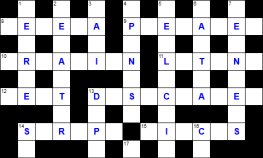
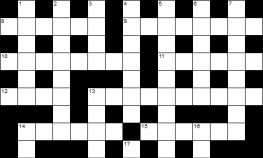
Complete grid 13 & switch to 14

diff --git a/grids/grid013.html b/grids/grid013.html
@@ -34,26 +34,25 @@ exolve-begin
   exolve-title: Community AOTW Crossword 13
   exolve-setter: contributors to <a href="https://www.reddit.com/r/crosswords/">/r/crosswords</a>
   exolve-prelude:
-    The shaded entry is last week’s <a href="https://www.reddit.com/r/crosswords/comments/m4whfk/aotw_pns/gqwjkae/" target="_blank">winner by professor_glum (week 27)</a>.<br><br>Definitions are <span class="xlv-definition">underlined in red</span>.
+    'Reveal this', 'Reveal all!', and 'Check this' (for correct entries) will also show clue parsing notes.
   exolve-width: 15
   exolve-height: 15
   exolve-grid:
-        . H!. R!. B!. S!. N!. M!. M!. 
-        P!E!S!E!T!A!. P!L!E!I!A!D!E!S!
-        . A!. M!. L!. A!. G!. N!. A!. 
-        A!R!C!A!D!I!A!N!. L!A!T!E!N!T!
-        . S!. S!. . . I!. E!. R!. D!. 
-        C!E!S!T!. D!E!S!I!C!C!A!T!E!S!
-        . . . E!. E!. H!. T!. . . R!. 
-        . S!T!R!I!P!S!. P!I!E!C!E!S!. 
-        . M!. . . O!. T!. N!. H!. . . 
-        V!A!R!N!I!S!H!I!N!G!. U!0 E!0 
-        . L!. E!. I!. D!. . . R!. L!. 
-        P!L!I!G!H!T!. D!E!V!A!L!U!E!S!
-        . P!. A!. I!. L!. O!. I!. V!. 
-        P!O!S!T!P!O!N!E!. L!U!S!T!E!R!
-        . X!. E!. N!. R!. T!. H!. N!. 
-  exolve-colour: #ccfcff 4D
+        .H.R.B.S.N.M.M.
+        PESETA.PLEIADES
+        .A.M.L.A.G.N.A.
+        ARCADIAN.LATENT
+        .S.S...I.E.R.D.
+        CEST.DESICCATES
+        ...E.E.H.T...R.
+        .STRIPS.PIECES.
+        .M...O.T.N.H...
+        VARNISHING.UBER
+        .L.E.I.D...R.L.
+        PLIGHT.DEVALUES
+        .P.A.I.L.O.I.V.
+        POSTPONE.LUSTER
+        .X.E.N.R.T.H.N.
   exolve-across:
     8  ~{Old money}~’s power ingrained within English middle class (6) <a href="https://www.reddit.com/r/crosswords/comments/is8w0i/aotw_eea/g57yfeb/" target="_blank">by siyoung91 (wk 1)</a><br><b>P</b><i>ower</i> + (SET {ingrained} env. {within} <b>E</b><i>nglish</i> + <i>cl</i><b>A</b><i>ss</i> {middle})
     9  Ed leaps, I tumble. . . we're ~{stars}~! (8) <a href="https://www.reddit.com/r/crosswords/comments/jz02dz/aotw_peae/gd8srji/" target="_blank">by ManyAMuckleHead (wk 11)</a><br>(ED LEAPS I)* {tumble}
@@ -64,8 +63,8 @@ exolve-begin
     14 ~{Sheds}~ tears after <i>Schindler’s List</i> ends (6) <a href="https://www.reddit.com/r/crosswords/comments/iweoot/aotw_srp/g62091y/" target="_blank">by professor_glum (wk 2)</a><br>RIPS {tears} after <i>Shindler’</i><b>S</b> <i>Lis</i><b>T</b> {ends}
     15 Species evolved, losing some original ~{parts}~ (6) <a href="https://www.reddit.com/r/crosswords/comments/j53arj/aotw_ics/g7qhq01/" target="_blank">by ManyAMuckleHead (wk 4)</a><br><b>(SPECIE</b><i>s</i> minus {losing} <b>S</b><i>ome</i> {original})* {evolved} 
     18 ~{Protecting wood}~ pecker, ultimately — its habitat's disappearing (10) <a href="https://www.reddit.com/r/crosswords/comments/kl14bm/aotw_ansig/ghti6zy/" target="_blank">by frygut (wk 16)</a><br><i>pecke</i><b>R</b> {ultimately} env. {its habitat is} VA·NISHING {disappearing}
-    20 <strong>U?E? (4)</strong># <a href="" target="_blank">by  (wk )</a><br>
-    22 ~{Dire Straits}~ playing with jazz, but missing way in (6) <a href="https://www.reddit.com/r/crosswords/comments/khhzu8/aotw_lgt/ggou019/" target="_blank">by Antagony (wk 15)</a><br>(PLAYING WITH minus {missing} WAY IN)* {jazz}
+    20 ~{Over in Germany}~, in Spandau, Berlin… (4) <a href="https://www.reddit.com/r/crosswords/comments/ma3nn5/aotw_ue/grskm8r/" target="_blank">by siyoung91 (wk 28)</a><br>HA {in} <i>spanda</i><b>U BER</b><i>lin</i>
+    22 … ~{Dire Straits}~ playing with jazz, but missing way in (6) <a href="https://www.reddit.com/r/crosswords/comments/khhzu8/aotw_lgt/ggou019/" target="_blank">by Antagony (wk 15)</a><br>(PLAYING WITH minus {missing} WAY IN)* {jazz}
     23 Leave USD lying around and it ~{depreciates}~! (8) <a href="https://www.reddit.com/r/crosswords/comments/k3g1mv/aotw_dvle/ge740qf/" target="_blank">by tenpoundpom (wk 12)</a><br>(LEAVE USD)* {lying around}
     25 Beat United, clinched top of Premiership ~{table}~ (8) <a href="https://www.reddit.com/r/crosswords/comments/l04vxx/aotw_otoe/gk1dul5/" target="_blank">by siyoung91 (wk 19)</a><br>(POST {Beat, e.g. police officer’s round} + ONE {United}) env. {clinched} <b>P</b><i>remiership</i> {top of} | Def: North American usage
     26 ~{Polish-American}~ ~{Lech}~? (6) <a href="https://www.reddit.com/r/crosswords/comments/jv4ezy/aotw_lse/gcjb895/" target="_blank">by pepperprince (wk 10)</a><br>DD (US spelling of 'lustre' & informal version of 'lecher') Surface note: '<a href="https://en.wikipedia.org/wiki/Lech,_Czech,_and_Rus" target="_blank">Lech</a>' is a common forename in Poland, made famous by former union leader and eventual president, <a href="https://en.wikipedia.org/wiki/Lech_Wa%C5%82%C4%99sa" target="_blank">Lech Wałęsa</a>

diff --git a/aotw.html b/aotw.html
@@ -12,10 +12,18 @@
       Competitions</a></h1>
   <div class="album">
     
+    <div class="album_item"><a href="grids/grid014.html"   target="_blank"><img class="album__artwork" src="images/aotw/thumb-014.png" alt="puzzle-thumbnail-014" /></a>
+      <a href="grids/grid014.html"   target="_blank">
+        <div class="album__details">
+          <h2>Ongoing Puzzle 14</h2>
+        </div>
+      </a>
+    </div>
+    
     <div class="album_item"><a href="grids/grid013.html"   target="_blank"><img class="album__artwork" src="images/aotw/thumb-013.png" alt="puzzle-thumbnail-013" /></a>
       <a href="grids/grid013.html"   target="_blank">
         <div class="album__details">
-          <h2>Ongoing Puzzle 13</h2>
+          <h2>Community Puzzle 13</h2>
         </div>
       </a>
     </div>

diff --git a/grids/grid014.html b/grids/grid014.html
@@ -33,6 +33,8 @@ exolve-begin
   exolve-id: AOTW014
   exolve-title: Community AOTW Crossword 14
   exolve-setter: contributors to <a href="https://www.reddit.com/r/crosswords/">/r/crosswords</a>
+  exolve-prelude:
+    The last round was won by <a href="https://www.reddit.com/user/siyoung91" target="_blank">siyoung91</a> for <a href="https://www.reddit.com/r/crosswords/comments/ma3nn5/aotw_ue/grskm8r/" target="_blank">UBER (wk 28)</a> at 20 across in the <a href="https://r-crosswords.github.io/aotw/grids/grid013.html" target="_blank">previous grid</a>.
   exolve-width: 15
   exolve-height: 15
   exolve-grid: 
